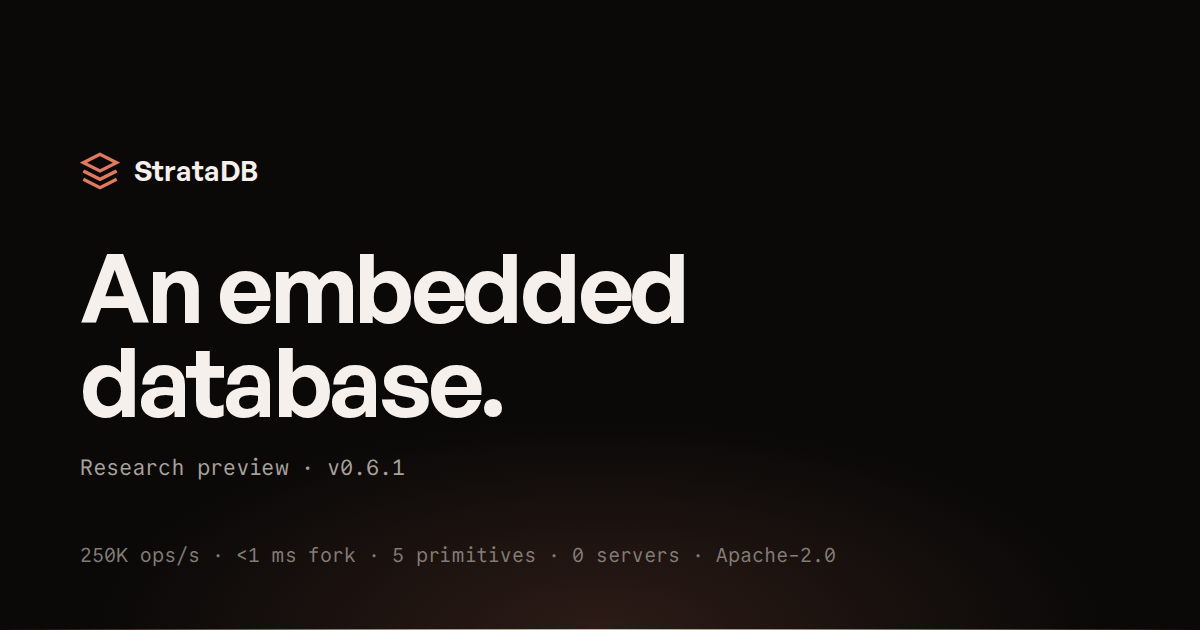
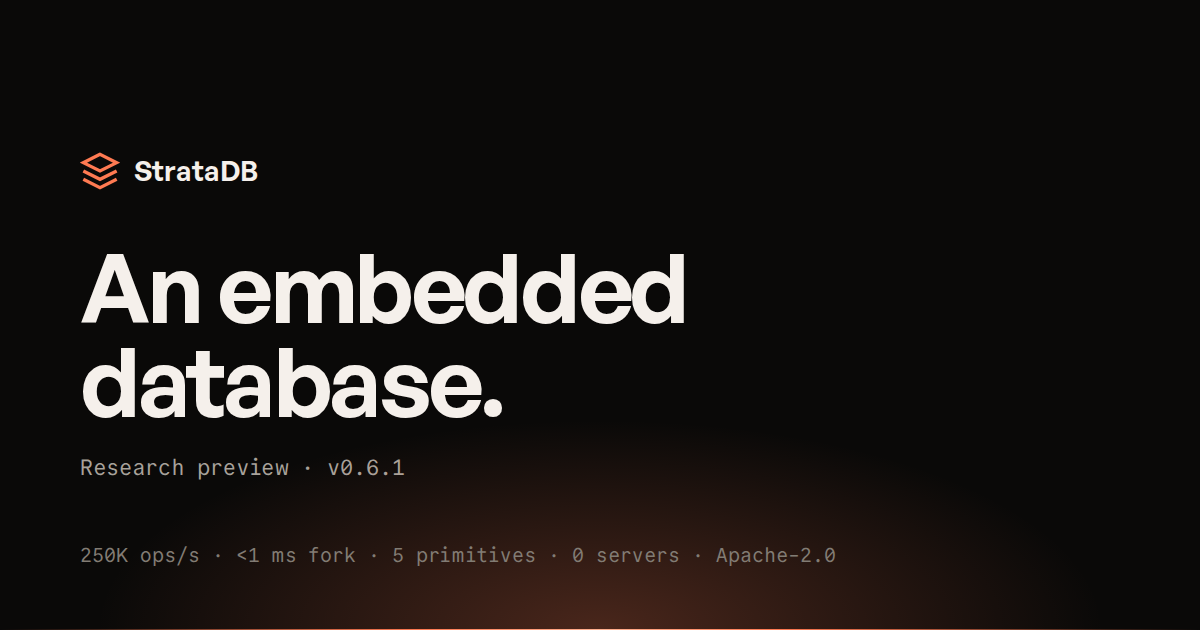
Ember: the palette now emits light instead of absorbing it
Clay → ember (Ani: clay read 'too serious'). Same terracotta family,
shifted luminous: 500 #E07A5F → #FF7A52, full ramp rebalanced, the five
primitive hues + functional colors brightened, horizon glow 0.13 → 0.24.
Decided in pixels: three candidates rendered against the live hero;
ember-hot rejected (the primary button shouts).

Every contrast pairing IMPROVED (500-on-void 6.74 → 7.73; button text
7.73; all primitives >8:1 on panel). axe stays CLEAN on landing + docs.
OG image regenerated in ember. Doc 02 amended (§4.1/§4.3/§4.4, Foundry
B2 target → #E85F3A); decision log updated.

Changed region(s): [[0.2158, 0.9349, 0.7708, 1.0], [0.0617, 0.2413, 0.0925, 0.3016]]

diff --git a/src/styles/tokens.css b/src/styles/tokens.css
@@ -29,18 +29,21 @@
   --color-line: rgba(245, 240, 235, 0.08);
   --color-line-hover: rgba(245, 240, 235, 0.14);
 
-  /* ---- terracotta ramp (02 §4.1) ---- */
-  --color-terracotta-50: #fdf3ef;
-  --color-terracotta-100: #fae4dc;
-  --color-terracotta-200: #f4c8b8;
-  --color-terracotta-300: #eda98f;
-  --color-terracotta-400: #e78f73;
-  --color-terracotta-500: #e07a5f;
-  --color-terracotta-600: #c75f45;
-  --color-terracotta-700: #a84a34;
-  --color-terracotta-800: #873a28;
-  --color-terracotta-900: #6e2f21;
-  --color-terracotta-950: #3b1812;
+  /* ---- terracotta ramp (02 §4.1; EMBER recalibration 2026-06-12) ----
+     Clay → ember: same family, luminous instead of muted — the palette
+     emits light rather than absorbing it (Ani: the clay read "too serious").
+     Ramp rebalanced around the new 500. */
+  --color-terracotta-50: #fff1ec;
+  --color-terracotta-100: #ffe0d4;
+  --color-terracotta-200: #ffc4ae;
+  --color-terracotta-300: #ffb191;
+  --color-terracotta-400: #ff9670;
+  --color-terracotta-500: #ff7a52;
+  --color-terracotta-600: #e85f3a;
+  --color-terracotta-700: #c44a28;
+  --color-terracotta-800: #9c3a1f;
+  --color-terracotta-900: #7d2f1a;
+  --color-terracotta-950: #431711;
 
   /* ---- sediment ramp (02 §4.2) ---- */
   --color-sediment-50: #faf8f6;
@@ -55,18 +58,18 @@
   --color-sediment-900: #1a1817;
   --color-sediment-950: #0a0908;
 
-  /* ---- the five primitives, on-dark anchors (02 §4.3) ----
+  /* ---- the five primitives, on-dark anchors (02 §4.3; ember-luminous) ----
      branch is NOT a primitive — the branch model wears terracotta (brand). */
-  --color-strata-kv: #6b9fff;
-  --color-strata-event: #4fc596;
-  --color-strata-json: #e5b566;
-  --color-strata-vector: #e87bb4;
-  --color-strata-graph: #a88bfa;
+  --color-strata-kv: #7caaff;
+  --color-strata-event: #4fe0a6;
+  --color-strata-json: #ffc66e;
+  --color-strata-vector: #ff8cc6;
+  --color-strata-graph: #b89cff;
 
-  /* ---- functional, on-dark (02 §4.4) ---- */
-  --color-ok: #4fc596;
-  --color-warn: #e5b566;
-  --color-err: #e5635c;
+  /* ---- functional, on-dark (02 §4.4; ember-luminous) ---- */
+  --color-ok: #3fe3a4;
+  --color-warn: #ffc66e;
+  --color-err: #ff6f64;
 
   /* ---- type (02 §5, §11) ---- */
   --font-sans: 'General Sans', system-ui, sans-serif;
@@ -136,8 +139,8 @@
   --dur-4: 480ms;
   --dur-5: 800ms;
 
-  /* the ONE glow (02 §10) — used only by HorizonGlow */
-  --horizon-glow: rgba(224, 122, 95, 0.13);
+  /* the ONE glow (02 §10) — used only by HorizonGlow; ember presence */
+  --horizon-glow: rgba(255, 122, 82, 0.24);
 
   /* floating set-piece shadow (02 §12) */
   --shadow-float: 0 1px 0 rgba(245, 240, 235, 0.06) inset,

diff --git a/docs/product/02-design-language.md b/docs/product/02-design-language.md
@@ -76,9 +76,15 @@ verification per pairing is an implementation gate, not re-litigation.)
 ### 4.1 Terracotta — the signature
 
 ```
-50 #FDF3EF · 100 #FAE4DC · 200 #F4C8B8 · 300 #EDA98F · 400 #E78F73
-500 #E07A5F   ← the brand anchor
-600 #C75F45 · 700 #A84A34 · 800 #873A28 · 900 #6E2F21 · 950 #3B1812
+50 #FFF1EC · 100 #FFE0D4 · 200 #FFC4AE · 300 #FFB191 · 400 #FF9670
+500 #FF7A52   ← the brand anchor (EMBER, 2026-06-12)
+600 #E85F3A · 700 #C44A28 · 800 #9C3A1F · 900 #7D2F1A · 950 #431711
+
+**Ember recalibration (2026-06-12, Ani):** the original clay anchor (#E07A5F) read
+muted-somber — "too serious." Same hue family, shifted luminous: the palette *emits*
+light. Clay is the material; ember is the material alive. Every contrast pairing
+improved (500-on-void: 6.74 → 7.73). Primitive and functional hues brightened to match
+(§4.3/§4.4); the horizon glow gained presence (0.13 → 0.24).
 ```
 
 **Usage discipline (cross-product):** terracotta marks *identity*, never *function*. It
@@ -104,13 +110,13 @@ Each primitive has one hue with an on-light and on-dark anchor. These appear **o
 where primitives are actually meant: badges, syntax/data coloring, the site's strata
 column, Foundry's view accents, Hub's primitive filter chips. Never as decoration.
 
-| Primitive | On light | On dark | Mnemonic |
+| Primitive | On light | On dark (ember-luminous, 2026-06-12) | Mnemonic |
 |---|---|---|---|
-| `kv` | #2563EB | #6B9FFF | deep-ocean sediment |
-| `event` | #0F9D6B | #4FC596 | ancient forest |
-| `json` | #B97E18 | #E5B566 | sandstone |
-| `vector` | #D6479B | #E87BB4 | rare mineral |
-| `graph` | #7C5CE0 | #A88BFA | volcanic rock |
+| `kv` | #2563EB | #7CAAFF | deep-ocean sediment |
+| `event` | #0F9D6B | #4FE0A6 | ancient forest |
+| `json` | #B97E18 | #FFC66E | sandstone |
+| `vector` | #D6479B | #FF8CC6 | rare mineral |
+| `graph` | #7C5CE0 | #B89CFF | volcanic rock |
 
 **Branch is not a primitive (corrected 2026-06-12).** The five primitives are kv, event,
 json, vector, graph. Branching is the *model* the primitives live inside — every branch
@@ -208,7 +214,7 @@ Derived from sediment-900/950 with two intermediate surfaces:
 --bg-inset:   #060605  (terminal wells)
 --border:        rgba(245,240,235,0.08)
 --border-hover:  rgba(245,240,235,0.14)
---border-focus:  #E07A5F (terracotta-500)
+--border-focus:  #FF7A52 (terracotta-500, ember)
 --horizon-glow:  rgba(224,122,95,0.13)   ← the ONE glow (two uses/page: hero, final CTA)
 ```
 
@@ -287,7 +293,7 @@ phases, each shippable alone:
 | Phase | Change | Today → Target |
 |---|---|---|
 | B1. Neutrals + primitives | Warm the grays; adopt §4.3 for view accents/badges | `--bg-alt #f6f7f9` → sediment-100 `#F1EEEA` · `--text #1a1d23` → sediment-950-ink · `--text-dim #6b7280` → sediment-500 `#8A847C` · `--bg-sidebar #1e2129` → sediment-900 `#1A1817` |
-| B2. Accent swap | Indigo → brand | `--accent #4f6bed` → terracotta-600 `#C75F45` · `--accent-soft #eaeefc` → terracotta-100 `#FAE4DC` · `--green/--error` → §4.4 functional |
+| B2. Accent swap | Indigo → brand | `--accent #4f6bed` → terracotta-600 `#E85F3A` (ember) · `--accent-soft #eaeefc` → terracotta-100 `#FFE0D4` · `--green/--error` → §4.4 functional |
 | B3. **Dark theme** | Second `:root` set from Part II's canvas tokens | Makes the site's dark "product photography" (Doc 04) an honest preview |
 
 System fonts stay (§5). The wordmark lockup (§7) replaces the plain-text brand string.

diff --git a/docs/product/README.md b/docs/product/README.md
@@ -66,3 +66,4 @@ are blocked until their upstream is signed off by Ani.
 | 2026-06-12 | **Docs 05 + 06 signed off — documentation phase complete.** Thin build plan (07) created: sequencing/gates only, no design content; resolves the phase-numbering gap (docs + agent surface = Phase 5; polish = 6; cutover = 7); deploy scaffolding moved into Phase 1 so checkpoints get preview URLs | 05, 06, 07 |
 | 2026-06-12 | **Branch is not a primitive; the fifth primitive is GRAPH** (Ani correction; verified: GraphCreate/AddNode/AddEdge/Bfs + typed ontology in executor). Five primitives = kv, event, json, vector, graph. Graph takes the violet (ex-state); branch UI wears terracotta as *brand* — the model, not a layer. Strata column bedrock = graph; branch verbs stay in section 2. Ani reservation logged: five hues may read rainbow-y — judged at Phase-3 checkpoint, fallback monochrome+icons | 02 §4.3, 04 §5, tokens.css, specimen |
 | 2026-06-12 | **`/specimen` is permanent** (Ani): the shared-foundation reference for site↔Foundry consistency; survives all cutover deletions. tokens.css switched to `@theme static` so every token emits for non-Tailwind consumers (also fixed pruned primitive vars) | 02 App C, 07 Phase 7, specimen |
+| 2026-06-12 | **EMBER recalibration** (Ani: clay palette read "too serious… can't take a joke"; ref. neon.com's luminosity). Same terracotta family shifted luminous — the palette emits light: 500 #E07A5F→#FF7A52, ramp rebalanced, primitive/functional hues brightened, glow 0.13→0.24. Decided in pixels (3 candidates rendered on the live hero; ember-hot rejected as shouting). Every contrast pairing improved; axe stays clean; OG regenerated; Foundry B2 target → #E85F3A | 02 §4, tokens.css, 08 |